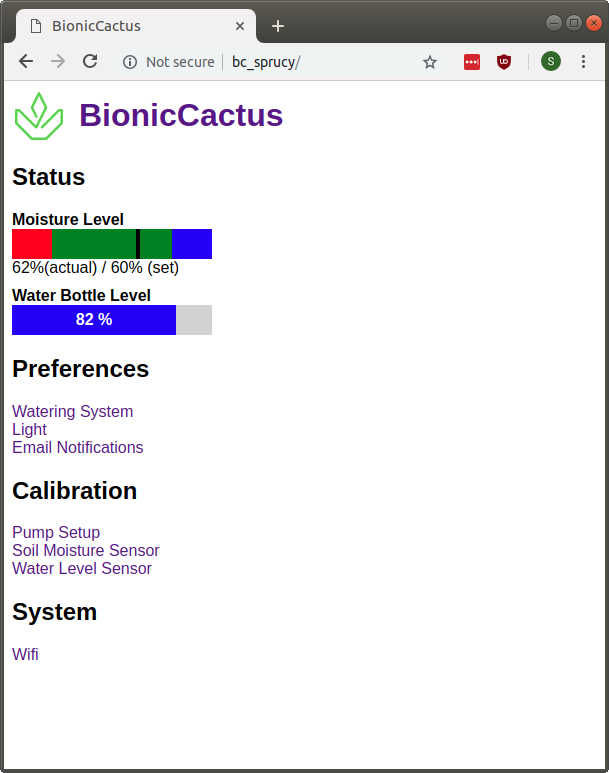
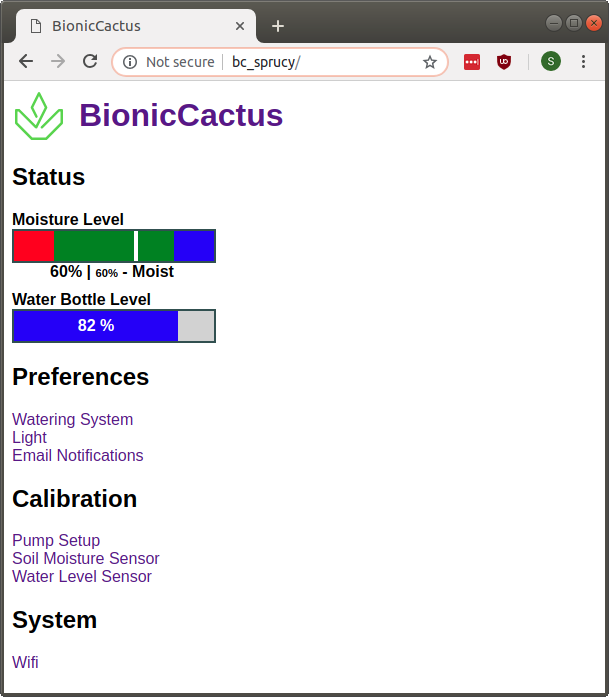
Additional styling for dashboards

diff --git a/src/web/soil/SoilDashboardTemplate.cpp b/src/web/soil/SoilDashboardTemplate.cpp
@@ -19,16 +19,22 @@ namespace Web {
 		            <div class="progressOuter" style="background-color: blue; position: relative;">	
 			            <div class="progressInner" style="width: 160px; background-color: green;">
                             <div class="progressInner" style="width: 40px; background-color: red;">
-                                <div style="position: absolute; width: %d%%; height: 30px; border-right: 4px solid black;"></div>
+                                <div style="position: absolute; width: %d%%; height: 30px; border-right: 4px solid white;"></div>
                             </div>
 			            </div>		
 		            </div>
-		            <div style="font-weight: normal;"> %d%% (actual) / %d%% (set) </div>
+		           <div style="text-align: center; width:200px;">%d%% | <span style="font-size: 0.7em;">%d%%</span> - %s</div>
 	            </div>)";
 
         const int padding = 7;
         int percent = _sensor.getPercent();
-        pos += snprintf(pos, end - pos, progressBar, percent, percent, _runLoop.getSetPoint());
+        const char* description = "Dry";
+        if(percent > 20) {
+            description = "Moist";
+        } else if (percent > 80) {
+            description = "Wet";
+        }
+        pos += snprintf(pos, end - pos, progressBar, percent, percent, _runLoop.getSetPoint(), description);
 
         return pos - out;
     }

diff --git a/src/web/Header.cpp b/src/web/Header.cpp
@@ -24,6 +24,7 @@ int Header::getHeader(char *out, size_t len) {
 		.progressOuter {
 			width: 200px;
 			background-color: lightgray;
+                        border: 2px solid darkslategrey;
 		}
 		.progressInner {
 			height: 30px;
